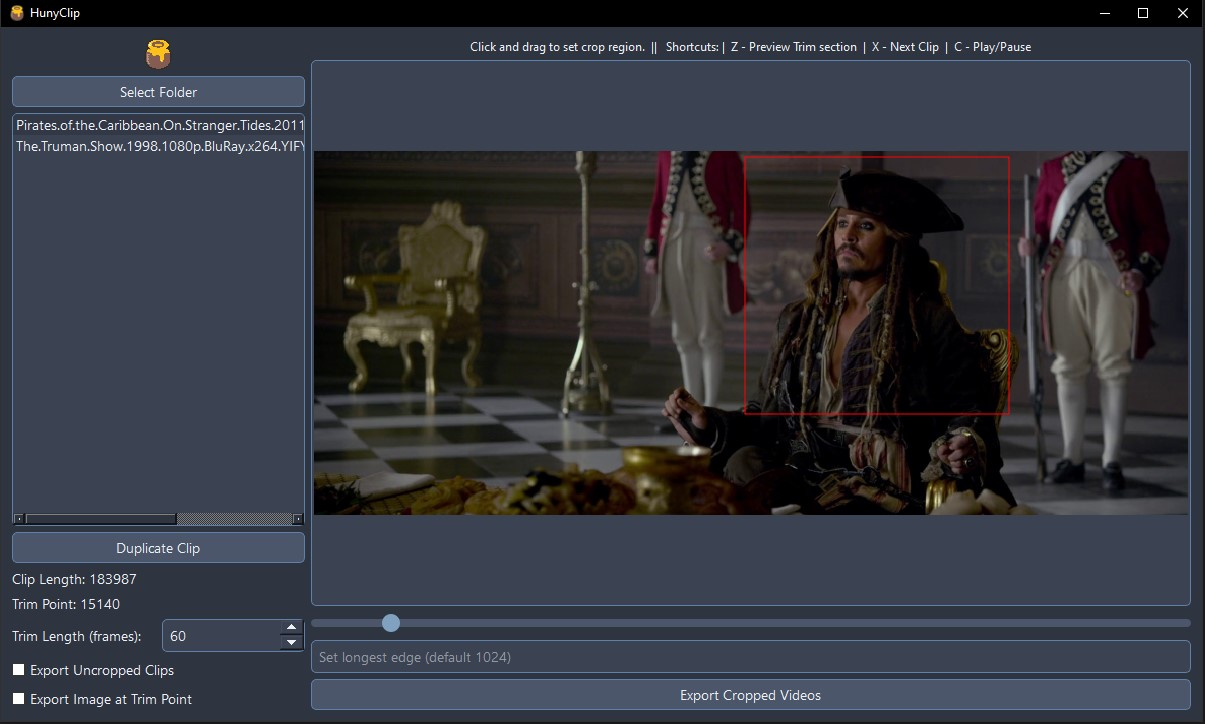
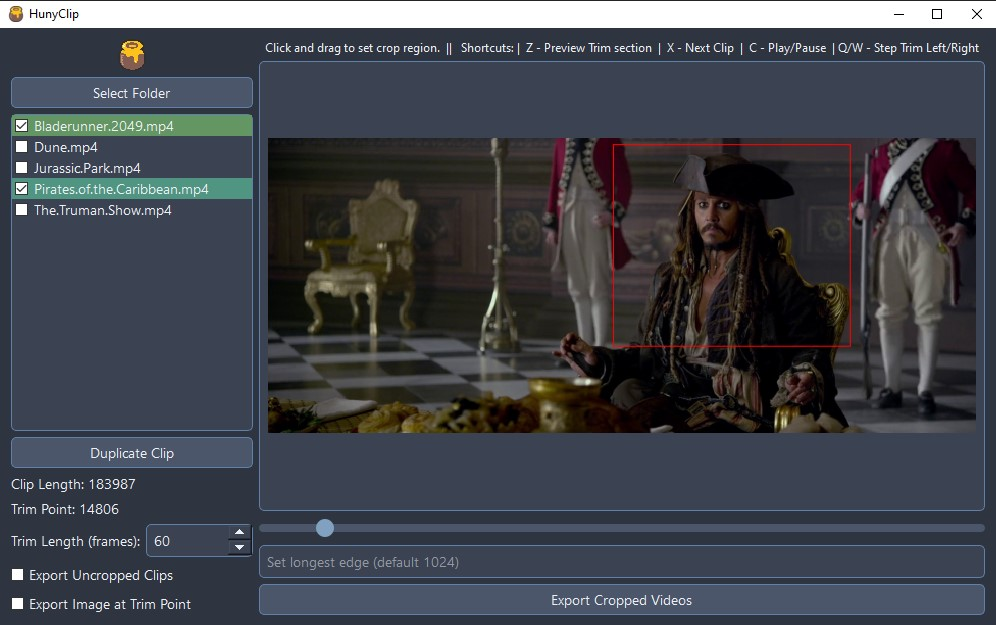
Added selective exports and session saves

diff --git a/video_cropper.py b/video_cropper.py
@@ -3,10 +3,11 @@ import os
 import cv2
 import ffmpeg
 import numpy as np
+import json
 from PyQt6.QtWidgets import (
     QApplication, QWidget, QFileDialog, QLabel, QPushButton, QVBoxLayout, QHBoxLayout,
     QListWidget, QSlider, QGraphicsView, QGraphicsScene, QGraphicsPixmapItem, QLineEdit,
-    QSpinBox, QSizePolicy, QCheckBox
+    QSpinBox, QSizePolicy, QCheckBox, QListWidgetItem
 )
 from PyQt6.QtGui import QPixmap, QImage, QPainter, QColor, QPen, QMouseEvent
 from PyQt6.QtCore import Qt, QRectF, QTimer
@@ -19,6 +20,7 @@ class VideoCropper(QWidget):
         self.setWindowTitle("HunyClip")
         self.setGeometry(100, 100, 800, 600)
         
+               
         # Set the window icon
         self.setWindowIcon(QIcon("favicon.ico"))    
         self.folder_path = ""
@@ -48,6 +50,21 @@ class VideoCropper(QWidget):
         self.export_uncropped = False
         self.export_image = False
         
+        # Temp file to save session data
+        self.session_file = "session_data.json"
+        
+        # Initialize video_list before loading session
+        self.video_list = QListWidget()
+        left_panel = QVBoxLayout()
+
+        # Video list
+        self.video_list.itemClicked.connect(self.load_video)
+        self.video_list.itemChanged.connect(self.update_list_item_color)  # Connect itemChanged signal
+        left_panel.addWidget(self.video_list, 1)
+        
+        # Load previous session if exists
+        self.load_session()
+        
         self.initUI()
     
     def initUI(self):
@@ -67,7 +84,6 @@ class VideoCropper(QWidget):
         left_panel.addWidget(self.folder_button)
         
         # Video list
-        self.video_list = QListWidget()
         self.video_list.itemClicked.connect(self.load_video)
         left_panel.addWidget(self.video_list, 1)
         
@@ -93,10 +109,12 @@ class VideoCropper(QWidget):
         
         # Export uncropped toggle
         self.export_uncropped_checkbox = QCheckBox("Export Uncropped Clips")
+        self.export_uncropped_checkbox.setChecked(False)  # Default to OFF
         left_panel.addWidget(self.export_uncropped_checkbox)
 
         # Add "Export Image at Trim Point" toggle
         self.export_image_checkbox = QCheckBox("Export Image at Trim Point")
+        self.export_image_checkbox.setChecked(False)  # Default to OFF
         left_panel.addWidget(self.export_image_checkbox)
         
         main_layout.addLayout(left_panel, 1)
@@ -105,7 +123,7 @@ class VideoCropper(QWidget):
         right_panel = QVBoxLayout()
 
         # Keybinding label
-        keybindings_label = QLabel("Click and drag to set crop region.  ||   Shortcuts: |  Z - Preview Trim section  |  X - Next Clip  |  C - Play/Pause")
+        keybindings_label = QLabel("Click and drag to set crop region.  ||   Shortcuts: |  Z - Preview Trim section  |  X - Next Clip  |  C - Play/Pause  | Q/W - Step Trim Left/Right")
         keybindings_label.setAlignment(Qt.AlignmentFlag.AlignCenter)  # Center the text
         keybindings_label.setStyleSheet("font-size: 12px; color: #ECEFF4;")  # Style the label
         right_panel.addWidget(keybindings_label)
@@ -145,6 +163,96 @@ class VideoCropper(QWidget):
         self.graphics_view.viewport().setMouseTracking(True)
         self.graphics_view.viewport().installEventFilter(self)
     
+
+
+
+    def load_session(self):
+        if os.path.exists(self.session_file):
+            with open(self.session_file, 'r') as file:
+                session_data = json.load(file)
+                self.folder_path = session_data.get('folder_path', "")
+                self.video_files = session_data.get('video_files', [])  # Ensure export_enabled is retained
+
+                self.crop_regions = session_data.get('crop_regions', {})
+                self.trim_points = session_data.get('trim_points', {})
+                self.longest_edge = session_data.get('longest_edge', 1024)
+                self.trim_length = session_data.get('trim_length', 60)
+                self.export_uncropped = session_data.get('export_uncropped', False)
+                self.export_image = session_data.get('export_image', False)
+
+                # Restore tickboxes
+                self.video_list.clear()
+                for entry in self.video_files:
+                    self.add_video_item(entry['display_name'], entry.get('export_enabled', False))
+
+                # Only reload folder if it wasn't already stored in session
+                if self.folder_path and os.path.exists(self.folder_path):
+                    self.load_folder_contents()
+
+
+    
+    def save_session(self):
+        # Ensure that the latest checkbox states are stored in self.video_files
+        for i in range(self.video_list.count()):
+            item = self.video_list.item(i)
+            self.video_files[i]['export_enabled'] = item.checkState() == Qt.CheckState.Checked
+
+        session_data = {
+            'folder_path': self.folder_path,
+            'video_files': self.video_files,
+            'crop_regions': self.crop_regions,
+            'trim_points': self.trim_points,
+            'longest_edge': self.longest_edge,
+            'trim_length': self.trim_length,
+            'export_uncropped': self.export_uncropped,
+            'export_image': self.export_image
+        }
+
+        with open(self.session_file, 'w') as file:
+            json.dump(session_data, file)
+
+
+    
+    def closeEvent(self, event):
+        self.save_session()
+        event.accept()
+    
+    def load_folder_contents(self):
+        files = [f for f in os.listdir(self.folder_path) 
+                if f.lower().endswith(('.mp4', '.avi', '.mov'))]
+
+        # Preserve previous settings if they exist
+        previous_video_files = {entry['display_name']: entry for entry in self.video_files}
+
+        self.video_files = []
+        for f in files:
+            display_name = f
+            video_entry = previous_video_files.get(display_name, {
+                'original_path': os.path.join(self.folder_path, f),
+                'display_name': display_name,
+                'copy_number': 0,
+                'export_enabled': False  # Default if not found in session
+            })
+            self.video_files.append(video_entry)
+
+        # Clear and re-add items
+        self.video_list.clear()
+        for entry in self.video_files:
+            self.add_video_item(entry['display_name'], entry['export_enabled'])
+
+        # Restore crop regions and trim points for existing videos
+        for entry in self.video_files:
+            if entry['display_name'] in self.crop_regions:
+                entry['crop_region'] = self.crop_regions[entry['display_name']]
+            if entry['display_name'] in self.trim_points:
+                entry['trim_point'] = self.trim_points[entry['display_name']]
+    
+    def load_folder(self):
+        folder = QFileDialog.getExistingDirectory(self, "Select Folder")
+        if folder:
+            self.folder_path = folder
+            self.load_folder_contents()
+       
     def duplicate_clip(self):
         current_item = self.video_list.currentItem()
         if not current_item:
@@ -162,10 +270,11 @@ class VideoCropper(QWidget):
         new_entry = {
             'original_path': original_entry['original_path'],
             'display_name': new_display,
-            'copy_number': new_copy
+            'copy_number': new_copy,
+            'export_enabled': True
         }
         self.video_files.append(new_entry)
-        self.video_list.addItem(new_display)
+        self.add_video_item(new_display, True)
         
         # Copy existing settings
         self.crop_regions[new_display] = self.crop_regions.get(
@@ -208,36 +317,29 @@ class VideoCropper(QWidget):
             )
             
             self.draw_crop_rectangle(x1, y1, x2-x1, y2-y1)
+            self.enable_export_for_current_video()  # Enable export when crop is modified
     
     def draw_crop_rectangle(self, x, y, w, h):
         if self.current_rect:
             self.scene.removeItem(self.current_rect)
         self.current_rect = self.scene.addRect(x, y, w, h, QPen(QColor(255, 0, 0)))
-    
-    def load_folder(self):
-        folder = QFileDialog.getExistingDirectory(self, "Select Folder")
-        if folder:
-            self.folder_path = folder
-            files = [f for f in os.listdir(folder) 
-                    if f.lower().endswith(('.mp4', '.avi', '.mov'))]
-            
-            # Initialize video entries
-            self.video_files = [{
-                'original_path': os.path.join(folder, f),
-                'display_name': f,
-                'copy_number': 0
-            } for f in files]
-            
-            self.video_list.clear()
-            self.video_list.addItems([e['display_name'] for e in self.video_files])
-            
-            # Initialize trim/crop for new entries
-            for entry in self.video_files:
-                if entry['display_name'] not in self.trim_points:
-                    self.trim_points[entry['display_name']] = 0
-                if entry['display_name'] not in self.crop_regions:
-                    self.crop_regions[entry['display_name']] = None
 
+
+    def enable_export_for_current_video(self):
+        current_item = self.video_list.currentItem()
+        if current_item:
+            current_item.setCheckState(Qt.CheckState.Checked)
+            self.update_list_item_color(current_item)
+
+    def update_list_item_color(self, item):
+        idx = self.video_list.row(item)
+        if idx >= 0 and idx < len(self.video_files):
+            self.video_files[idx]['export_enabled'] = item.checkState() == Qt.CheckState.Checked
+        if item.checkState() == Qt.CheckState.Checked:
+            item.setBackground(QColor(100, 150, 100))  # Light green color for enabled items
+        else:
+            item.setBackground(QColor(0, 0, 0, 0))  # Reset to default color (transparent)           
+    
     def load_video(self, item):
         idx = self.video_list.row(item)
         video_entry = self.video_files[idx]
@@ -319,6 +421,15 @@ class VideoCropper(QWidget):
             ret, frame = self.cap.read()
             if ret:
                 self.display_frame(frame)
+            self.enable_export_for_current_video()  # Enable export when trim is modified
+
+    def add_video_item(self, display_name, export_enabled):
+        item = QListWidgetItem(display_name)
+        item.setFlags(item.flags() | Qt.ItemFlag.ItemIsUserCheckable)
+        item.setCheckState(Qt.CheckState.Checked if export_enabled else Qt.CheckState.Unchecked)  # Restore saved checkbox state
+        self.update_list_item_color(item)  # Update color based on state
+        self.video_list.addItem(item)
+
 
     def update_trim_label(self):
         val = self.slider.value()
@@ -384,6 +495,11 @@ class VideoCropper(QWidget):
             display_name = entry['display_name']
             crop = self.crop_regions.get(display_name)
             if not crop:
+                continue
+            
+            # Check if the item is enabled for export
+            item = self.video_list.item(self.video_files.index(entry))
+            if item.checkState() != Qt.CheckState.Checked:
                 continue
             
             cap = cv2.VideoCapture(video_path)
